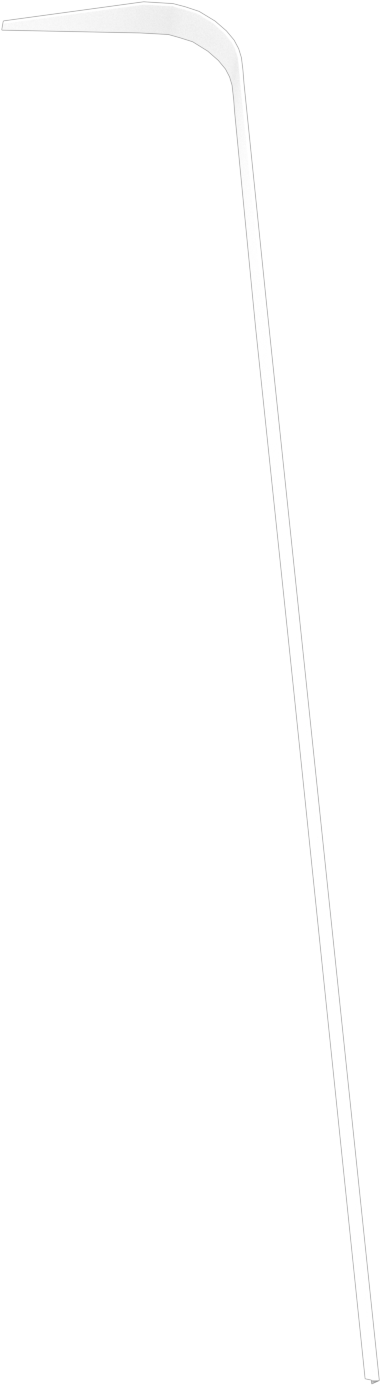
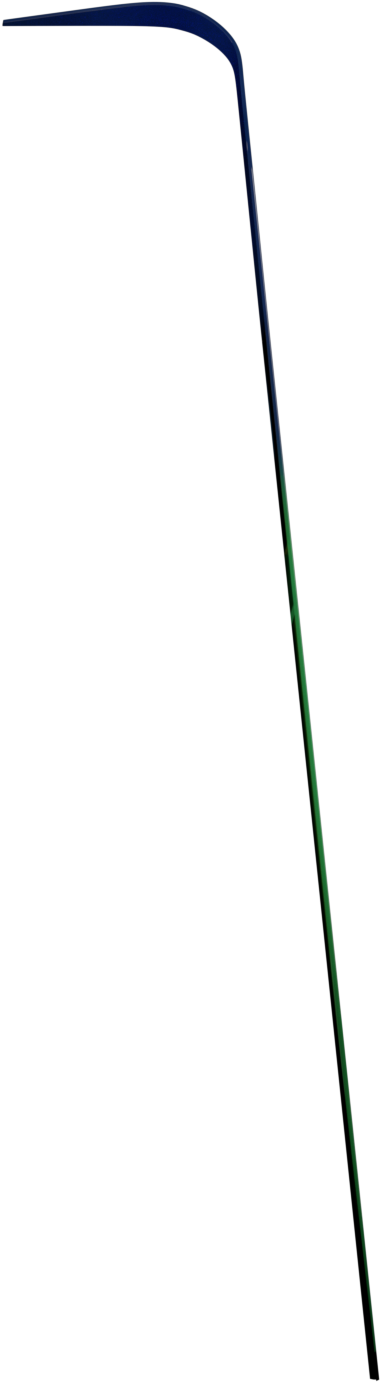
feat: launcher final asset (#201)
* feat: launch backgroun railing asset

* refactor: launch ramp final assets

* refactor: updated assets and position for launcher ramp

* test: golden tests for launcher ramp

* fix: render order and positioning

* refactor: TODO for future refactor of final ramp shape

* refactor: extended launcher foreground rail until boundary bottom to avoid balls scape from dino

Changed region(s): [[0.0, 0.0, 1.0, 1.0]]

diff --git a/packages/pinball_components/lib/src/components/launch_ramp.dart b/packages/pinball_components/lib/src/components/launch_ramp.dart
@@ -42,10 +42,21 @@ class LaunchRamp extends Forge2DBlueprint {
 /// {@endtemplate}
 class _LaunchRampBase extends BodyComponent with InitialPosition, Layered {
   /// {@macro launch_ramp_base}
-  _LaunchRampBase() : super(priority: Ball.launchRampPriority - 1) {
+  _LaunchRampBase()
+      : super(
+          priority: Ball.launchRampPriority - 1,
+          children: [
+            _LaunchRampBackgroundRailingSpriteComponent(),
+            _LaunchRampBaseSpriteComponent(),
+          ],
+        ) {
     layer = Layer.launcher;
+    renderBody = false;
   }
 
+  // TODO(ruimiguel): final asset differs slightly from the current shape. We
+  // need to fix shape with correct vertices, but right now merge them to have
+  // final assets at game and not be blocked.
   List<FixtureDef> _createFixtureDefs() {
     final fixturesDef = <FixtureDef>[];
 
@@ -114,14 +125,6 @@ class _LaunchRampBase extends BodyComponent with InitialPosition, Layered {
 
     return body;
   }
-
-  @override
-  Future<void> onLoad() async {
-    await super.onLoad();
-    renderBody = false;
-
-    await add(_LaunchRampBaseSpriteComponent());
-  }
 }
 
 class _LaunchRampBaseSpriteComponent extends SpriteComponent with HasGameRef {
@@ -135,7 +138,23 @@ class _LaunchRampBaseSpriteComponent extends SpriteComponent with HasGameRef {
     this.sprite = sprite;
     size = sprite.originalSize / 10;
     anchor = Anchor.center;
-    position = Vector2(25.65, 0);
+    position = Vector2(25.65, 0.7);
+  }
+}
+
+class _LaunchRampBackgroundRailingSpriteComponent extends SpriteComponent
+    with HasGameRef {
+  @override
+  Future<void> onLoad() async {
+    await super.onLoad();
+
+    final sprite = await gameRef.loadSprite(
+      Assets.images.launchRamp.backgroundRailing.keyName,
+    );
+    this.sprite = sprite;
+    size = sprite.originalSize / 10;
+    anchor = Anchor.center;
+    position = Vector2(25.6, -1.3);
   }
 }
 
@@ -145,7 +164,13 @@ class _LaunchRampBaseSpriteComponent extends SpriteComponent with HasGameRef {
 /// {@endtemplate}
 class _LaunchRampForegroundRailing extends BodyComponent with InitialPosition {
   /// {@macro launch_ramp_foreground_railing}
-  _LaunchRampForegroundRailing() : super(priority: Ball.launchRampPriority + 1);
+  _LaunchRampForegroundRailing()
+      : super(
+          priority: Ball.launchRampPriority + 1,
+          children: [_LaunchRampForegroundRailingSpriteComponent()],
+        ) {
+    renderBody = false;
+  }
 
   List<FixtureDef> _createFixtureDefs() {
     final fixturesDef = <FixtureDef>[];
@@ -153,7 +178,7 @@ class _LaunchRampForegroundRailing extends BodyComponent with InitialPosition {
     final rightStraightShape = EdgeShape()
       ..set(
         Vector2(27.6, -57.9),
-        Vector2(30, -35.1),
+        Vector2(38.1, 42.6),
       );
     final rightStraightFixtureDef = FixtureDef(rightStraightShape);
     fixturesDef.add(rightStraightFixtureDef);
@@ -189,14 +214,6 @@ class _LaunchRampForegroundRailing extends BodyComponent with InitialPosition {
 
     return body;
   }
-
-  @override
-  Future<void> onLoad() async {
-    await super.onLoad();
-    renderBody = false;
-
-    await add(_LaunchRampForegroundRailingSpriteComponent());
-  }
 }
 
 class _LaunchRampForegroundRailingSpriteComponent extends SpriteComponent
@@ -211,7 +228,7 @@ class _LaunchRampForegroundRailingSpriteComponent extends SpriteComponent
     this.sprite = sprite;
     size = sprite.originalSize / 10;
     anchor = Anchor.center;
-    position = Vector2(22.8, 0);
+    position = Vector2(22.8, 0.5);
   }
 }
 

diff --git a/packages/pinball_components/lib/gen/assets.gen.dart b/packages/pinball_components/lib/gen/assets.gen.dart
@@ -184,6 +184,10 @@ class $AssetsImagesKickerGen {
 class $AssetsImagesLaunchRampGen {
   const $AssetsImagesLaunchRampGen();
 
+  /// File path: assets/images/launch_ramp/background-railing.png
+  AssetGenImage get backgroundRailing =>
+      const AssetGenImage('assets/images/launch_ramp/background-railing.png');
+
   /// File path: assets/images/launch_ramp/foreground-railing.png
   AssetGenImage get foregroundRailing =>
       const AssetGenImage('assets/images/launch_ramp/foreground-railing.png');

diff --git a/lib/game/game_assets.dart b/lib/game/game_assets.dart
@@ -22,6 +22,9 @@ extension PinballGameAssetsX on PinballGame {
       images.load(
         components.Assets.images.launchRamp.foregroundRailing.keyName,
       ),
+      images.load(
+        components.Assets.images.launchRamp.backgroundRailing.keyName,
+      ),
       images.load(components.Assets.images.dino.dinoLandTop.keyName),
       images.load(components.Assets.images.dino.dinoLandBottom.keyName),
       images.load(components.Assets.images.dash.animatronic.keyName),

diff --git a/packages/pinball_components/test/src/components/launch_ramp_test.dart b/packages/pinball_components/test/src/components/launch_ramp_test.dart
@@ -16,6 +16,7 @@ void main() {
       'renders correctly',
       setUp: (game, tester) async {
         await game.addFromBlueprint(LaunchRamp());
+        await game.ready();
         game.camera.followVector2(Vector2.zero());
         game.camera.zoom = 4.1;
       },
